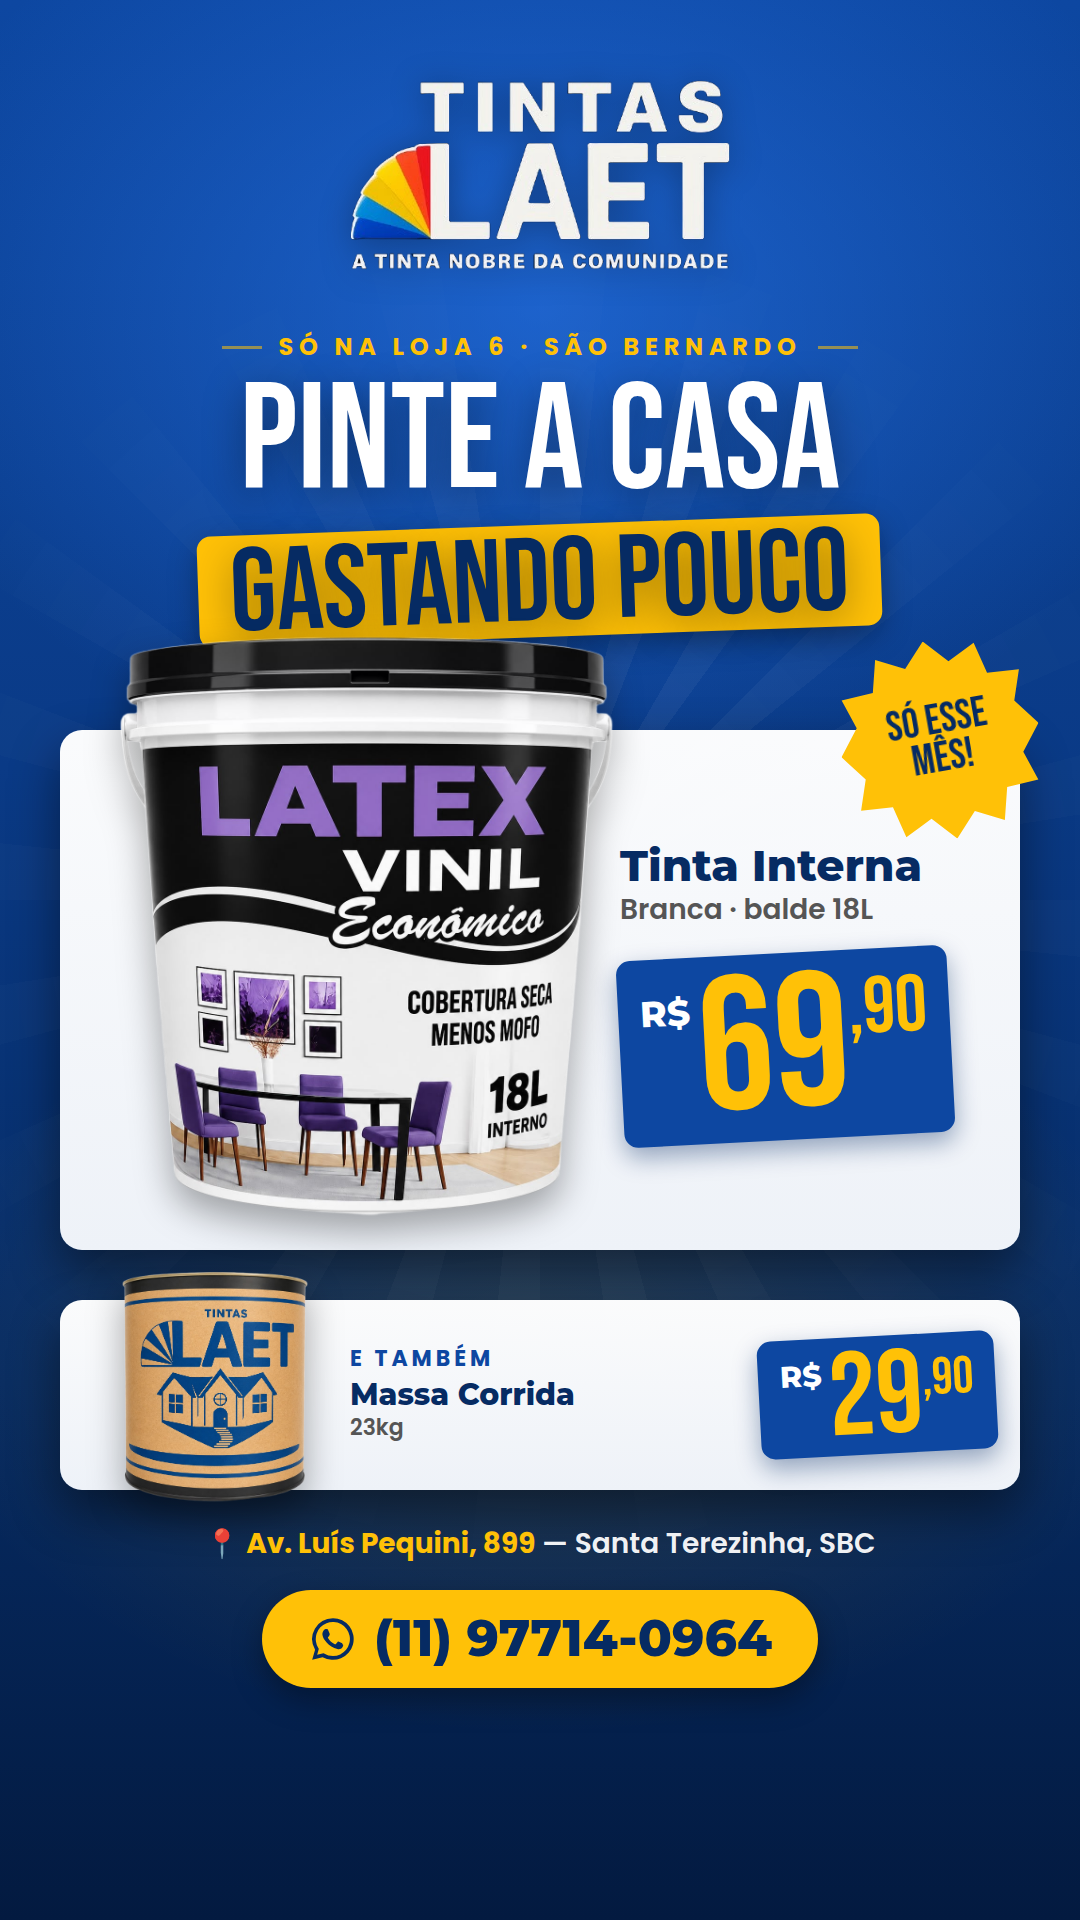
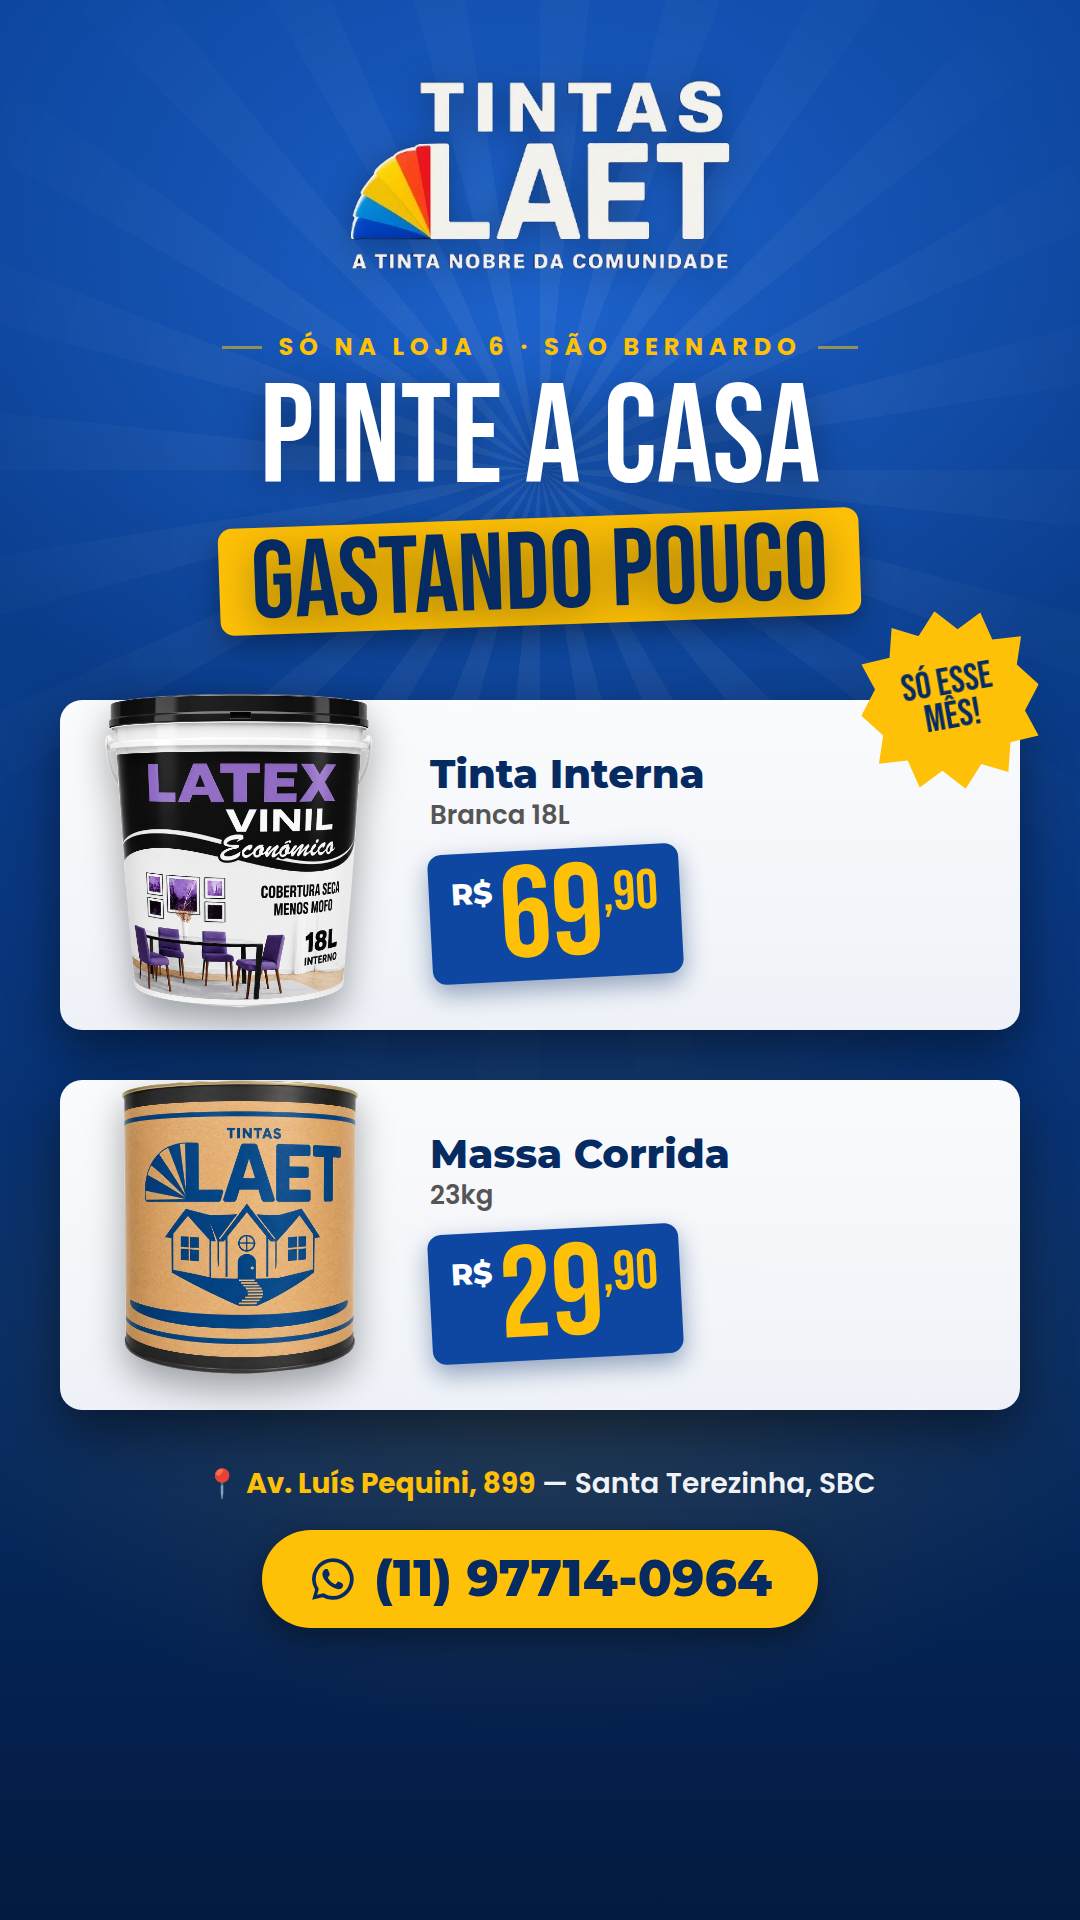
Story de amanhã repaginado: produtos do mesmo tamanho, hierarquia limpa
Claude-Session: https://claude.ai/code/session_01GERzdKqRwXMVg2X3B1iW2A

diff --git a/marketing/stories/2026-10/07-loja6-oferta-amanha/story.html b/marketing/stories/2026-10/07-loja6-oferta-amanha/story.html
@@ -38,30 +38,27 @@ body { background:#020A18; display:flex; flex-direction:column; align-items:cent
 .end b { color:#FFC107; font-weight:700; }
 .fine { font:600 20px/1.3 'Poppins',sans-serif; color:rgba(255,255,255,.7); }
 .slide { width:1080px; height:1920px; }
-.rays { top:900px; }
-h1 { font:400 150px/.88 'Bebas Neue',sans-serif; text-shadow:0 10px 40px rgba(0,0,0,.4); }
-.abs.prod { position:absolute; }
-.hero { left:60px; right:60px; top:730px; height:520px; }
-.hero .img { right:auto; transform:none; left:14px; top:-100px; height:590px; }
-.hero .tx { position:absolute; left:560px; right:30px; top:0; bottom:0; display:flex; flex-direction:column; justify-content:center; align-items:flex-start; text-align:left; }
-.hero .nm { font-size:44px; } .hero .sz { font-size:28px; }
-.hero .price { margin-top:26px; } .hero .price .n { font-size:190px; } .hero .price .c { font-size:80px; } .hero .price .rs { font-size:36px; margin-top:30px; }
-.strip { left:60px; right:60px; top:1300px; height:190px; }
-.strip .img { left:30px; transform:none; top:-36px; height:250px; }
-.strip .tx { position:absolute; left:290px; right:24px; top:0; bottom:0; display:flex; align-items:center; justify-content:space-between; text-align:left; }
-.strip .price .n { font-size:118px; } .strip .price .c { font-size:52px; } .strip .price .rs { margin-top:16px; }
-.e { font:700 22px/1 'Poppins',sans-serif; color:#0D47A1; letter-spacing:.18em; margin-bottom:8px; }
+.rays { top:470px; }
+h1 { font:400 140px/.9 'Bebas Neue',sans-serif; text-shadow:0 10px 40px rgba(0,0,0,.4); }
+h1 .chip { font-size:110px; padding:8px 32px 0; margin-top:8px; }
+.abs.prod { position:absolute; left:60px; right:60px; height:330px; }
+.prod .ibox { position:absolute; left:20px; top:-30px; width:320px; height:360px; display:flex; align-items:center; justify-content:center; }
+.prod .ibox img { max-width:100%; max-height:100%; filter:drop-shadow(0 16px 18px rgba(0,0,0,.35)); }
+.prod .tx { position:absolute; left:370px; right:30px; top:0; bottom:0; display:flex; flex-direction:column; justify-content:center; align-items:flex-start; text-align:left; }
+.prod .nm { font-size:40px; } .prod .sz { font-size:26px; }
+.prod .price { margin-top:18px; }
+.prod .price .n { font-size:130px; } .prod .price .c { font-size:56px; } .prod .price .rs { margin-top:20px; }
 </style></head><body>
 <div class="slide azul">
   <div class="rays"></div>
   <div class="abs center" style="top:80px"><img class="logo" src="../../../../identidade/logotipo-branco-recortado.png" style="height:190px" alt="Tintas Laet"></div>
   <div class="abs center" style="top:335px">
     <div class="ey">Só na Loja 6 · São Bernardo</div>
-    <h1 style="margin-top:18px">PINTE A CASA<br><span class="chip" style="font-size:118px; padding:8px 32px 0;">GASTANDO POUCO</span></h1>
+    <h1 style="margin-top:18px">PINTE A CASA<br><span class="chip">GASTANDO POUCO</span></h1>
   </div>
-  <div class="abs prod hero"><img class="img" src="tinta.png" alt="Tinta Interna"><div class="tx"><div class="nm">Tinta Interna</div><div class="sz">Branca · balde 18L</div><div class="price"><span class="rs">R$</span><span class="n">69</span><span class="c">,90</span></div></div></div>
-  <div class="abs burst" style="right:40px; top:640px; width:200px; height:200px; font-size:42px;">SÓ ESSE<br>MÊS!</div>
-  <div class="abs prod strip"><img class="img" src="massa.png" alt="Massa Corrida"><div class="tx"><div><div class="e">E TAMBÉM</div><div class="nm">Massa Corrida</div><div class="sz">23kg</div></div><div class="price"><span class="rs">R$</span><span class="n">29</span><span class="c">,90</span></div></div></div>
-  <div class="abs center" style="top:1525px"><div class="end">📍 <b>Av. Luís Pequini, 899</b> — Santa Terezinha, SBC</div></div>
-  <div class="abs center" style="top:1590px"><div class="wa"><svg viewBox="0 0 24 24" fill="#062B63"><path d="M12 2a10 10 0 0 0-8.6 15.1L2 22l5-1.3A10 10 0 1 0 12 2zm0 18.2c-1.5 0-3-.4-4.3-1.2l-.3-.2-3 .8.8-2.9-.2-.3A8.2 8.2 0 1 1 12 20.2zm4.5-6.1c-.2-.1-1.5-.7-1.7-.8-.2-.1-.4-.1-.6.1l-.8 1c-.1.2-.3.2-.5.1-.7-.3-1.4-.7-2-1.3-.5-.5-1-1.1-1.3-1.7-.1-.2 0-.4.1-.5l.4-.5.3-.5v-.5l-.8-1.9c-.2-.5-.4-.4-.6-.4h-.5c-.2 0-.5.1-.7.3-.6.6-.9 1.4-.9 2.2.1 1 .5 2 1.1 2.8 1.2 1.7 2.7 3 4.6 3.8.5.2 1 .4 1.5.5.6.2 1.2.1 1.7-.1.5-.3.9-.7 1-1.3.1-.3.1-.6 0-.8l-.3-.1z"/></svg> (11) 97714-0964</div></div>
+  <div class="abs prod" style="top:700px"><div class="ibox"><img src="tinta.png" alt="Tinta Interna"></div><div class="tx"><div class="nm">Tinta Interna</div><div class="sz">Branca 18L</div><div class="price"><span class="rs">R$</span><span class="n">69</span><span class="c">,90</span></div></div></div>
+  <div class="abs prod" style="top:1080px"><div class="ibox"><img src="massa.png" alt="Massa Corrida"></div><div class="tx"><div class="nm">Massa Corrida</div><div class="sz">23kg</div><div class="price"><span class="rs">R$</span><span class="n">29</span><span class="c">,90</span></div></div></div>
+  <div class="abs burst" style="right:40px; top:610px; width:180px; height:180px; font-size:38px;">SÓ ESSE<br>MÊS!</div>
+  <div class="abs center" style="top:1465px"><div class="end">📍 <b>Av. Luís Pequini, 899</b> — Santa Terezinha, SBC</div></div>
+  <div class="abs center" style="top:1530px"><div class="wa"><svg viewBox="0 0 24 24" fill="#062B63"><path d="M12 2a10 10 0 0 0-8.6 15.1L2 22l5-1.3A10 10 0 1 0 12 2zm0 18.2c-1.5 0-3-.4-4.3-1.2l-.3-.2-3 .8.8-2.9-.2-.3A8.2 8.2 0 1 1 12 20.2zm4.5-6.1c-.2-.1-1.5-.7-1.7-.8-.2-.1-.4-.1-.6.1l-.8 1c-.1.2-.3.2-.5.1-.7-.3-1.4-.7-2-1.3-.5-.5-1-1.1-1.3-1.7-.1-.2 0-.4.1-.5l.4-.5.3-.5v-.5l-.8-1.9c-.2-.5-.4-.4-.6-.4h-.5c-.2 0-.5.1-.7.3-.6.6-.9 1.4-.9 2.2.1 1 .5 2 1.1 2.8 1.2 1.7 2.7 3 4.6 3.8.5.2 1 .4 1.5.5.6.2 1.2.1 1.7-.1.5-.3.9-.7 1-1.3.1-.3.1-.6 0-.8l-.3-.1z"/></svg> (11) 97714-0964</div></div>
 </div></body></html>
